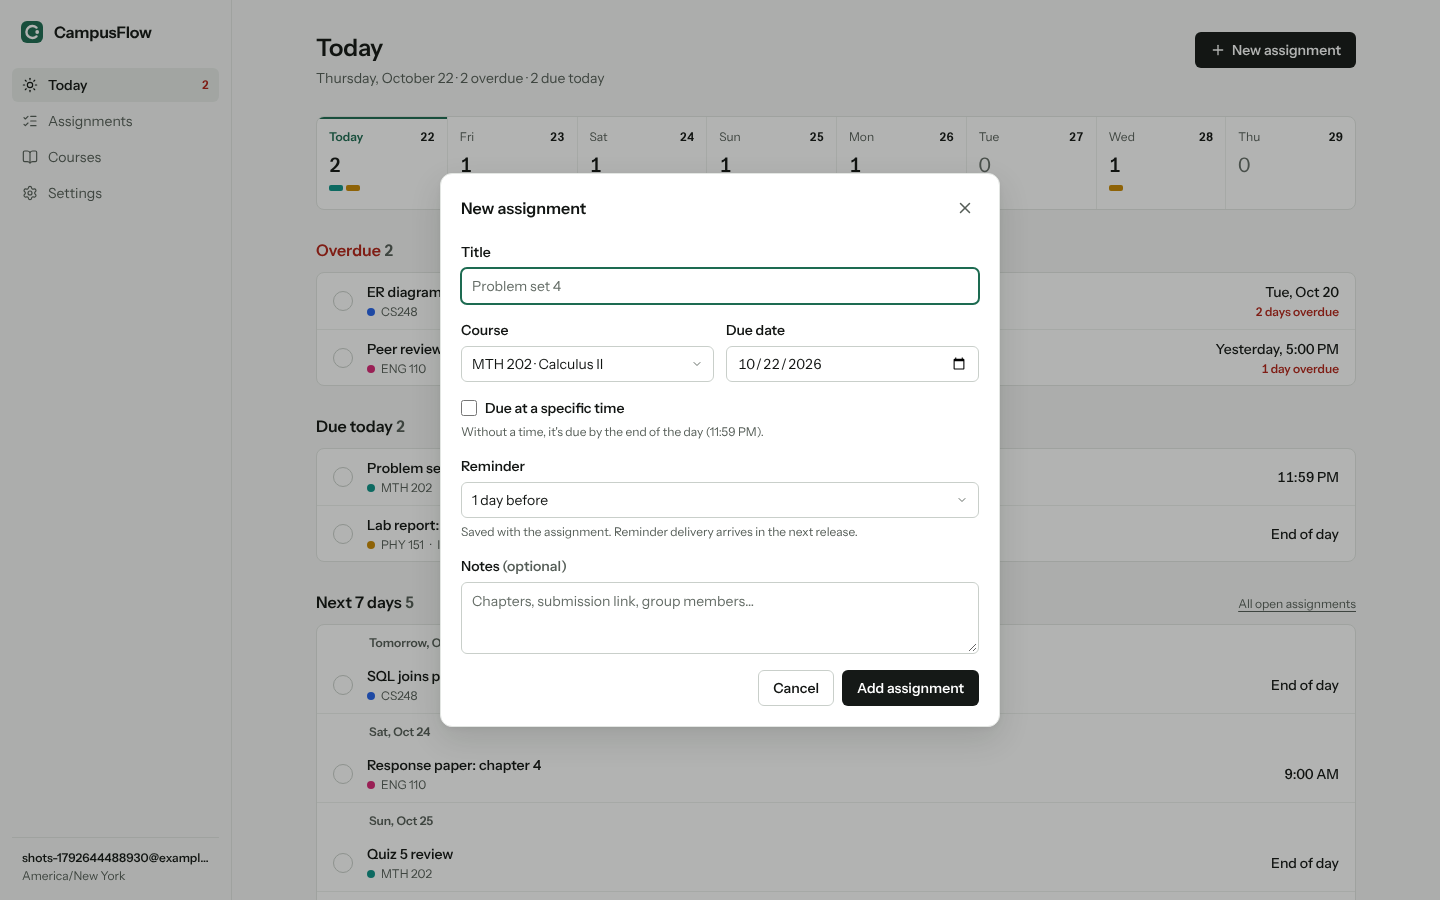
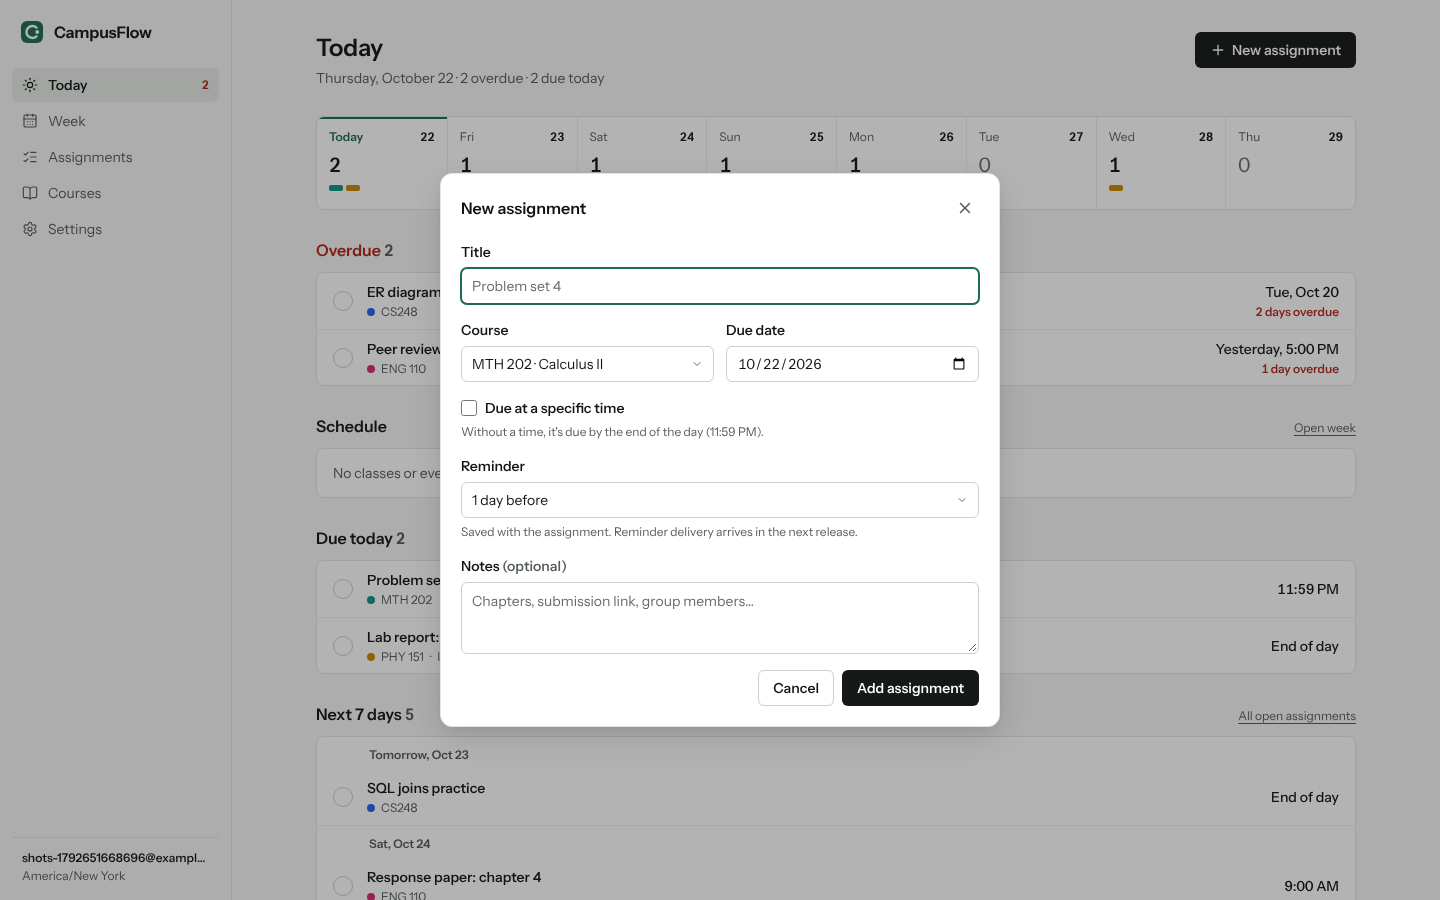
Document Milestone 2: calendar rules, time zones, and new screenshots
README now covers the events table, why occurrences are computed rather
than stored, the scheduling and time zone rules with examples, updated
test coverage, and Milestone 2's known limitations. Screenshots are
refreshed so every sidebar shows the new Week page.

Claude-Session: https://claude.ai/code/session_01KrdEjGrntDcUnF16kqxGfm

diff --git a/README.md b/README.md
@@ -1,6 +1,6 @@
 # CampusFlow
 
-A college planner for keeping every course and deadline in one place: what's overdue, what's due today, and what's coming up this week, in your own time zone.
+A college planner for keeping every course, class, and deadline in one place: what's overdue, what's due today, where you need to be this week, and which plans clash, all in your own time zone.
 
 Built as a full-stack portfolio project: a React + TypeScript frontend, a FastAPI backend, PostgreSQL, and (in a later milestone) a separate worker for durable reminders.
 
@@ -11,7 +11,7 @@ Built as a full-stack portfolio project: a React + TypeScript frontend, a FastAP
 | Milestone | Scope | State |
 | --- | --- | --- |
 | 1 | Accounts, courses, assignments, persistent storage | **Done** |
-| 2 | Weekly calendar, recurring classes, conflict detection | Not started |
+| 2 | Weekly calendar, recurring classes, conflict detection | **Done** |
 | 3 | Durable reminders and notification settings | Not started |
 | 4 | Demo account, deployment, usability, portfolio docs | Not started |
 
@@ -23,17 +23,21 @@ Students juggle deadlines from four to six courses, each with its own syllabus, 
 2. **Capture fast:** a professor announces a deadline, so press <kbd>N</kbd>, type a title, and save. The last course you used is remembered.
 3. **Find and filter:** search assignments, filter by course, status, overdue, or date range, and sort by deadline.
 4. **Finish:** check an assignment off. It's saved before it's shown as done, and it can be undone.
-5. **End the semester:** archive a course to keep its history without cluttering the lists.
+5. **Plan the week:** see classes, meetings, and deadlines on one week grid, and get warned before booking two things at once.
+6. **End the semester:** archive a course to keep its history without cluttering the lists.
 
 ## Screenshots
 
 | | |
 | --- | --- |
+| ![Week grid](docs/screenshots/week-light.png) | ![Agenda view](docs/screenshots/agenda-light.png) |
+| ![Conflict warning](docs/screenshots/event-conflict-light.png) | ![Editing a weekly class](docs/screenshots/class-dialog-light.png) |
 | ![Assignments](docs/screenshots/assignments-light.png) | ![New assignment](docs/screenshots/dialog-light.png) |
 | ![Courses](docs/screenshots/courses-light.png) | ![Settings](docs/screenshots/settings-light.png) |
-| ![Today in dark mode](docs/screenshots/today-dark.png) | ![Sign in](docs/screenshots/login.png) |
+| ![Week in dark mode](docs/screenshots/week-dark.png) | ![Today in dark mode](docs/screenshots/today-dark.png) |
+| ![Sign in](docs/screenshots/login.png) | |
 
-<img src="docs/screenshots/today-phone.png" alt="Today on a phone" width="300">
+<img src="docs/screenshots/today-phone.png" alt="Today on a phone" width="300"> <img src="docs/screenshots/agenda-phone.png" alt="The week as an agenda on a phone" width="300">
 
 ## Architecture
 
@@ -56,6 +60,8 @@ erDiagram
   users ||--o{ courses : owns
   users ||--o{ assignments : owns
   courses ||--o{ assignments : "contains (same user)"
+  users ||--o{ events : owns
+  courses |o--o{ events : "optionally linked (same user)"
   users {
     bigint id PK
     varchar email "unique, lowercase"
@@ -91,6 +97,22 @@ erDiagram
     int reminder_minutes "null = none"
     uuid idempotency_key "unique per user"
   }
+  events {
+    bigint id PK
+    bigint user_id FK
+    bigint course_id FK "nullable, composite FK (user_id, course_id)"
+    varchar title
+    varchar kind "class, study, meeting, other"
+    timestamptz starts_at "one-time only (UTC)"
+    timestamptz ends_at "one-time only (UTC)"
+    smallint_array weekdays "weekly only, 0 = Monday"
+    time start_time "weekly only, local wall time"
+    int duration_minutes "weekly only"
+    varchar time_zone "weekly only, IANA zone the class is defined in"
+    date first_date "weekly only"
+    date last_date "weekly only"
+    uuid idempotency_key "unique per user"
+  }
   rate_limit_events {
     bigint id PK
     varchar bucket "e.g. login:email:..."
@@ -98,7 +120,7 @@ erDiagram
   }
 ```
 
-Exactly one of `due_date` or `due_at` is set; a check constraint enforces it.
+Exactly one of `due_date` or `due_at` is set; a check constraint enforces it. Likewise an event is either one-time (`starts_at`/`ends_at`) or weekly (the rule columns), never a mix. Weekly occurrences aren't stored: they're computed from the rule for whatever window is asked for (see [Calendar](#calendar-rules-are-stored-occurrences-are-computed)).
 
 ## Tech stack and versions
 
@@ -167,6 +189,7 @@ uv run pytest --cov=app
 # Frontend
 cd frontend
 npm run format:check && npm run lint && npm run typecheck && npm run build
+npm test                          # calendar layout unit tests (Node's built-in runner)
 
 # Browser tests: start their own API (on a separate campusflow_e2e database) and dev server
 npx playwright install chromium   # once
@@ -175,15 +198,19 @@ npm run test:e2e
 
 GitHub Actions ([`.github/workflows/ci.yml`](.github/workflows/ci.yml)) runs all three jobs on every push and pull request, with a PostgreSQL 16 service container.
 
-What the 49 backend tests cover (98% line coverage):
+What the 83 backend tests cover (98% line coverage):
 
 - **Auth:** HTTP-only cookie, email normalization, generic login errors, server-side logout (a replayed cookie fails), idle and absolute expiry, CSRF header required for writes, cross-origin writes rejected, login throttling that survives across clients, password change signing out other devices, account deletion.
 - **Isolation:** another user's records return 404 by ID for read, edit, complete, delete, archive, and deletion-impact. An assignment can't be attached to another user's course, and the database itself rejects such a row. Idempotency keys are scoped per user.
 - **Assignments:** validation, lifecycle, every filter, title search with literal `%` and `_`, both sort orders, the Today grouping, idempotent create (including six concurrent double-submits), and the likely-duplicate warning and its exact matching rule.
 - **Courses:** validation, idempotent create, archive keeps data, and delete requires the confirmed count and cascades in one transaction.
 - **Time:** spring-forward gaps, fall-back overlaps, overdue exactly after 11:59 PM local, time zone changes, and "today" computed in the user's zone rather than UTC.
+- **Scheduling rules (pure functions, no database):** adjacent events don't conflict, a one-minute overlap does, overnight events clash with the next morning, weekly expansion stays inside both the window and the series dates, classes keep their local time through daylight saving, a class start in the spring-forward gap moves forward, a repeated fall-back time uses the first one, and a class defined in another zone keeps that zone's wall time.
+- **Calendar API:** validation (end after start, unique weekdays, series at most a year), conflict warnings for one-time and recurring events with **Save anyway**, deadlines that never block time, overnight events, editing a whole series, idempotent create, bounded windows, archived courses' events hidden and ignored for conflicts, events on Today, deleting a course with its events, and isolation between users.
 
-The Playwright test walks one student through the app: register, add a course, add an overdue assignment, trigger the duplicate warning and the discard prompt, search, complete, reload, sign out, and sign back in. A second test checks the wrong-password error.
+Seven frontend unit tests cover the week grid's geometry: overnight events split across two days, overlapping events side by side, adjacent ones not, and the visible hour range.
+
+The Playwright test walks one student through the app: register, add a course, add an overdue assignment, trigger the duplicate warning and the discard prompt, add a weekly class and a clashing meeting on the calendar, save past the conflict warning and see both flagged in the agenda, search, complete, reload, sign out, and sign back in. A second test checks the wrong-password error.
 
 ## Key decisions
 
@@ -219,7 +246,7 @@ Every query filters by the user ID taken from the session, never from the reques
 
 ### Archive vs. delete
 
-Archiving sets `archived_at`. Every assignment stays, but the course is hidden from Today, lists, and pickers, and can't get new work until it's restored. Deleting first shows how many assignments will go with it. The `DELETE` request must include that confirmed number (`?expected_assignments=7`). The API locks the course row, recounts, and refuses with `409` if the number changed, so you never delete more than you agreed to. The cascade happens in the same transaction.
+Archiving sets `archived_at`. Every assignment stays, but the course is hidden from Today, lists, and pickers, and can't get new work until it's restored. Deleting first shows how many assignments and calendar events will go with it. The `DELETE` request must include those confirmed numbers (`?expected_assignments=7&expected_events=2`). The API locks the course row, recounts, and refuses with `409` if the number changed, so you never delete more than you agreed to. The cascade happens in the same transaction.
 
 ### Time zones
 
@@ -240,6 +267,27 @@ Rules, all computed on the server so every view agrees:
 
 Settings shows a live preview of what a time zone change will do before you save.
 
+### Calendar: rules are stored, occurrences are computed
+
+A weekly class is stored once, as a rule: days of the week, local start time, duration, its IANA zone, and first and last class dates. The API turns rules into concrete occurrences only for the window being viewed (at most 42 days), in [`backend/app/scheduling.py`](backend/app/scheduling.py), a module of pure functions with no database or web code. One-time events are stored as exact UTC instants.
+
+The tradeoff: storing every occurrence as its own row would make queries trivial and allow cancelling one meeting, but editing a class would mean rewriting a semester of rows and keeping them in sync. Computing on read keeps one source of truth and makes "edit the series" a single update. The cost is CPU on every read (small: a week of a full schedule is a few dozen occurrences) and no per-occurrence exceptions yet. The edit dialog says so: "Changes apply to every meeting in this series."
+
+Scheduling rules:
+
+- **An event occupies [start, end).** A class ending at 10:00 and one starting at 10:00 don't conflict. Deadlines are markers and never occupy time.
+- **Conflicts are a warning, not a block.** Saving an overlapping event returns `409 schedule_conflict` listing what it overlaps (including every future meeting of a weekly class). The form shows them, and **Save anyway** resends with `allow_conflicts: true`. Overlaps stay flagged on the grid, in the agenda, and on Today.
+- **Overnight events work.** A 10 PM to 12:45 AM event ends the next day. The week grid draws it on both days, and it conflicts with anything early the next morning.
+- **End must be after start.** For a one-time event that's checked on the exact instants. For a weekly class, an end time earlier than the start means "ends the next day".
+- **Archived courses' events are hidden** and ignored for conflicts, and come back when the course is restored.
+
+Time zones for events:
+
+- **A class keeps its local time.** A Friday 9:00 class in New York is 13:00 UTC in October and 14:00 UTC after clocks fall back on November 1, 2026, and it shows as 9:00 both weeks.
+- **A class keeps its own zone.** It's defined in the zone you were in when you created it. If you move to Los Angeles, that 9:00 New York class shows at 6:00 AM, which is when it actually happens. A one-time event keeps its instant, like an exact deadline.
+- **Skipped times move forward for classes.** If a weekly class starts at 2:30 AM, the meeting on March 8, 2026 (when New York skips from 2:00 to 3:00) happens at 3:30 AM. For a single event, a time that doesn't exist is rejected with an explanation instead, since there's no series to keep consistent.
+- **Repeated times use the first one.** On November 1, 2026, 1:30 AM happens twice; CampusFlow uses the first (EDT) and says so after saving a one-time event.
+
 ## Design
 
 The interface follows three design skills: Impeccable's rules for product UI, Emil Kowalski's design-engineering and motion guidance, and the Taste skill's app-screen study. Concretely:
@@ -251,11 +299,16 @@ The interface follows three design skills: Impeccable's rules for product UI, Em
 - **Accessibility:** visible focus rings, labeled fields, a skip link, keyboard-reachable everything, and 4.5:1 text contrast in both themes.
 - **Forms never lose input:** a failed save keeps every field, and closing a form with edits asks first.
 
-The Taste inspector reports 0 failures on every screen. Editable designs (components, color variables, and the main screens in light and dark) live in a Figma file in the project owner's drafts.
+The week grid follows the same rules: course colors appear only as event tints and deadline dots, conflicts get a red edge and a warning icon (never color alone), and phones get the agenda, a list that works with screen readers, instead of a cramped grid.
 
-## Known limitations (as of Milestone 1)
+The Taste inspector reports 0 failures on every screen. The main remaining warning is deliberate: calendar axis labels and event details use 12px text, because a week of classes has to fit on one screen. Editable designs (components, color variables, and the main screens in light and dark, including the week grid, the calendar event component, and the conflict dialog) live in a Figma file in the project owner's drafts.
 
-- No calendar, recurring classes, or conflict detection yet (Milestone 2).
+## Known limitations (as of Milestone 2)
+
+- Editing a weekly class changes every meeting, past and future. Skipping or moving a single meeting (a holiday, a moved lab) isn't supported yet.
+- Only weekly repetition. A series can run at most one year, and a one-time event at most 14 days.
+- Events of archived courses are hidden from the calendar until the course is restored.
+- Phones show the week as an agenda list only; the grid needs a wider screen.
 - Reminder preferences are saved but not delivered yet (Milestone 3). The form says so.
 - The "last course used" memory is per device (browser storage), not per account.
 - Registering with an email that already exists says so. This lets someone check whether an address has an account, a tradeoff accepted for clearer sign-up errors. Registration is rate limited per IP.
@@ -267,11 +320,13 @@ The Taste inspector reports 0 failures on every screen. Editable designs (compon
 ```
 backend/
   app/            FastAPI app: config, db, models, schemas, security, routers/
+                  scheduling.py (pure recurrence and overlap rules), calendar.py (loading and shaping)
   alembic/        migrations
   scripts/        ensure_db.py
   tests/          pytest suite (disposable PostgreSQL per run)
 frontend/
   src/            React app: api.ts, pages/, components/, styles.css
+                  calendarLayout.ts (+ .test.ts): week grid geometry
   e2e/            Playwright tests
 docs/screenshots/
 .github/workflows/ci.yml
